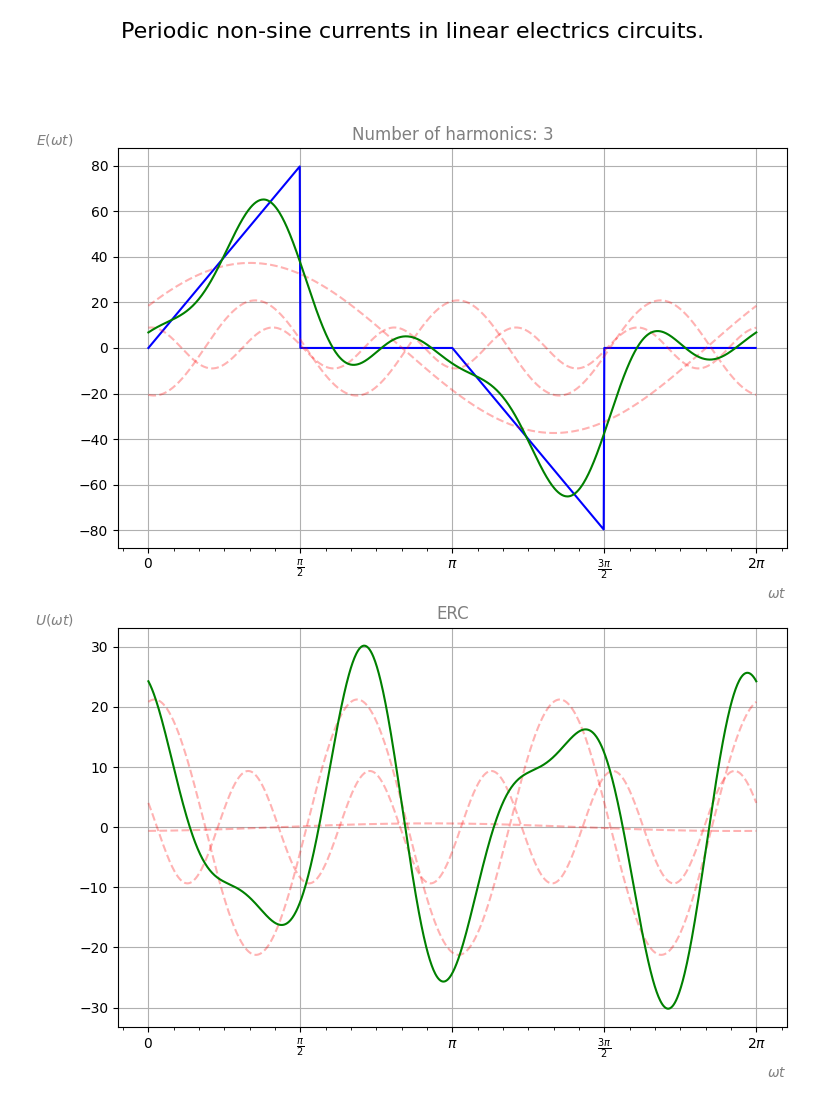
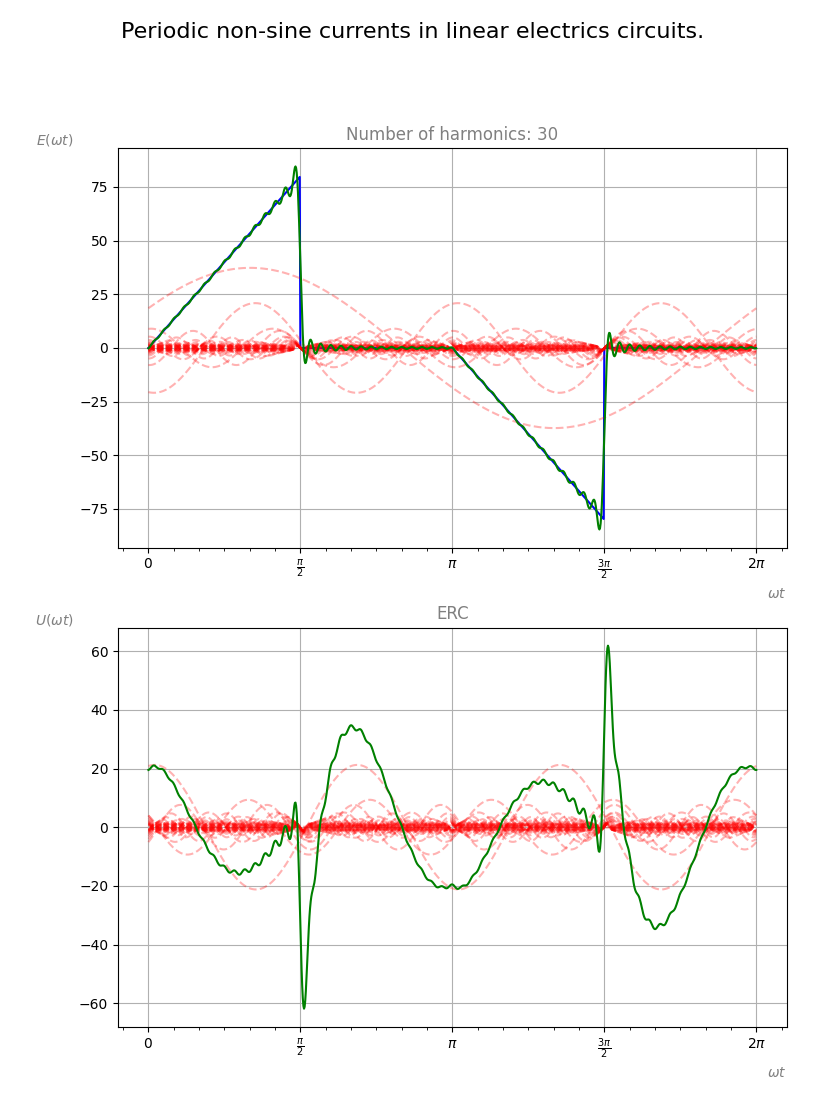
dkr1. test 30

diff --git a/temkdkr/dkr1.py b/temkdkr/dkr1.py
@@ -113,7 +113,7 @@ def main():
     # C = 14e-6
     # w = 1000.0
 
-    n = 3
+    n = 30
 
     # 1-2
     x_range = generate_x_range(0.0, 2 * math.pi, 1000)
@@ -240,6 +240,7 @@ def main():
     beta = gamma.imag
     Zc1 = cmath.sqrt(A12 / A21)
 
+    print("Gamma = {}".format(gamma))
     print("Alpha = {}".format(alpha))
     print("Beta = {}".format(beta))
     print("Zc1 = {}".format(Zc1))
@@ -258,7 +259,7 @@ def main():
 
     plt.show()
 
-    # fig_page1.savefig("./input_files/Dkr1_img_png")
+    fig_page1.savefig("./input_files/Dkr1_img_png")
 
 
 main()
